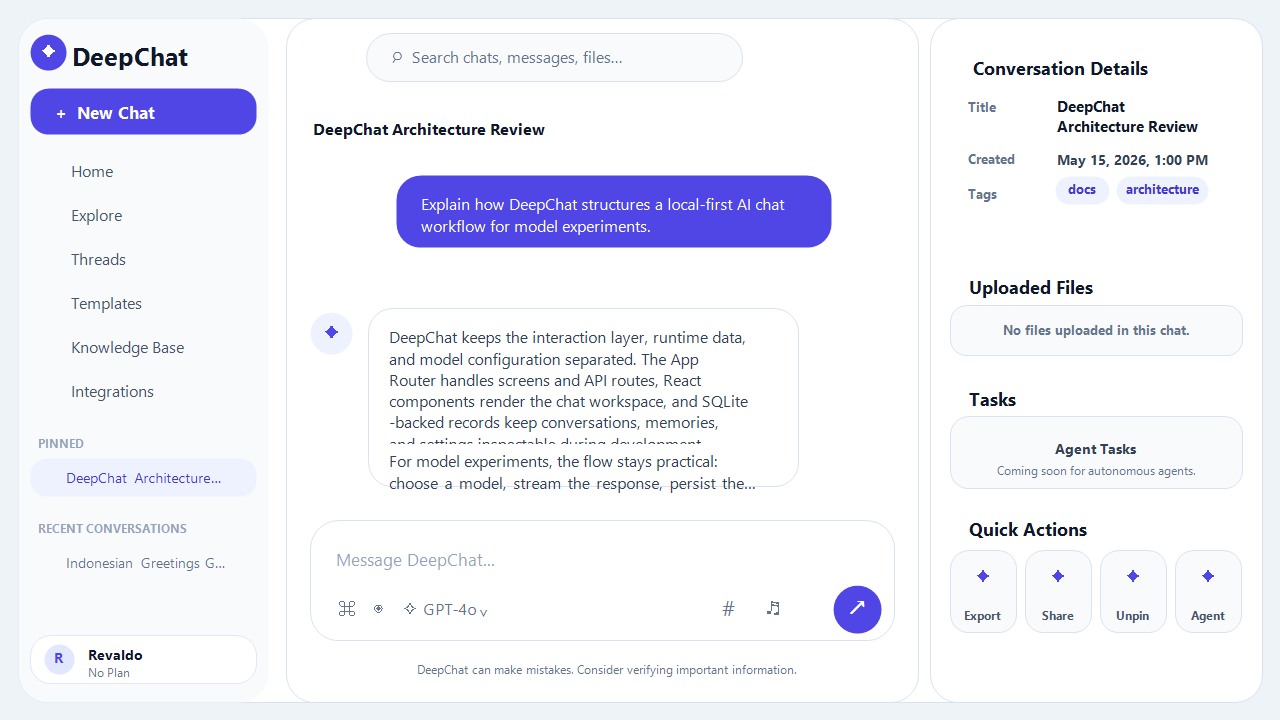
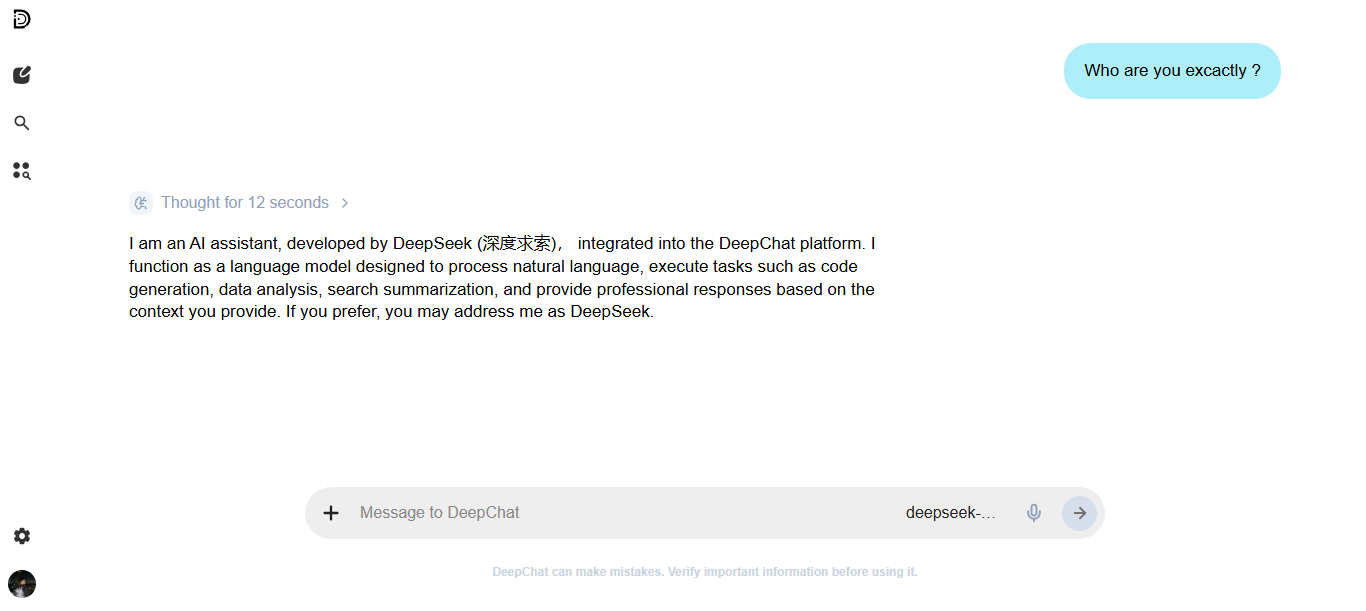
Updating readme and add Contributor.md

diff --git a/README.md b/README.md
@@ -1,179 +1,153 @@
-# DeepChat
-
 <div align="center">
+  <img src="./public/icon.svg" alt="DeepChat Logo" width="120" height="120" />
 
-![Project Status](https://img.shields.io/badge/status-under%20development-111827?style=flat-square)
-![Next.js](https://img.shields.io/badge/Next.js-16.2.4-000000?style=flat-square&logo=nextdotjs)
-![React](https://img.shields.io/badge/React-19.2.4-087EA4?style=flat-square&logo=react&logoColor=white)
-![TypeScript](https://img.shields.io/badge/TypeScript-5.x-3178C6?style=flat-square&logo=typescript&logoColor=white)
-![Tailwind CSS](https://img.shields.io/badge/Tailwind%20CSS-4.x-38BDF8?style=flat-square&logo=tailwindcss&logoColor=white)
-![pnpm](https://img.shields.io/badge/pnpm-ready-F69220?style=flat-square&logo=pnpm&logoColor=white)
-![License](https://img.shields.io/badge/license-MIT-16A34A?style=flat-square)
+  # DeepChat
 
-**An under-development AI chat agent interface inspired by ChatGPT and OpenClaw.**
+  <p align="center">
+    <strong>A next-generation, local-first AI chat workspace and agent environment.</strong>
+  </p>
 
-DeepChat is a modern, extensible, agent-oriented chat application built with Next.js, React, and TypeScript. It is designed for AI conversations, model experimentation, personalized assistant behavior, memory-assisted context, code workflows, and a polished local-first chat experience.
+  <p align="center">
+    <a href="https://img.shields.io/badge/status-active_development-blue?style=for-the-badge"><img src="https://img.shields.io/badge/status-active_development-blue?style=for-the-badge" alt="Status" /></a>
+    <a href="https://nextjs.org/"><img src="https://img.shields.io/badge/Next.js-16.2.4-black?style=for-the-badge&logo=nextdotjs" alt="Next.js" /></a>
+    <a href="https://react.dev/"><img src="https://img.shields.io/badge/React-19.2.4-087EA4?style=for-the-badge&logo=react&logoColor=white" alt="React" /></a>
+    <a href="https://www.typescriptlang.org/"><img src="https://img.shields.io/badge/TypeScript-5.x-3178C6?style=for-the-badge&logo=typescript&logoColor=white" alt="TypeScript" /></a>
+    <a href="https://tailwindcss.com/"><img src="https://img.shields.io/badge/Tailwind_CSS-4.x-38BDF8?style=for-the-badge&logo=tailwindcss&logoColor=white" alt="Tailwind CSS" /></a>
+    <a href="https://pnpm.io/"><img src="https://img.shields.io/badge/pnpm-ready-F69220?style=for-the-badge&logo=pnpm&logoColor=white" alt="pnpm" /></a>
+    <a href="./LICENSE"><img src="https://img.shields.io/badge/license-MIT-16A34A?style=for-the-badge" alt="MIT License" /></a>
+  </p>
 
+  <p align="center">
+    <a href="./README_id.md"><strong>Bahasa Indonesia (README_id.md)</strong></a>
+  </p>
 </div>
 
-## Overview
+---
 
-DeepChat is an AI chat agent application created for people who want a refined conversational interface with room for experimentation. The project is inspired by the interaction model of ChatGPT and the agent-oriented workflow direction of OpenClaw, while still developing its own structure, interface decisions, and local-first runtime behavior.
+DeepChat is a feature-rich, local-first conversational workspace built with Next.js, React, and TypeScript. Inspired by the dynamic UX of ChatGPT and the agent-focused adaptability of OpenClaw, DeepChat provides a polished interface for advanced model experimentation, long-term memory extraction, interactive sandboxed code execution, and custom assistant behavior.
 
-The application is currently under active development. The goal is to provide a capable AI chat workspace that feels familiar enough for everyday use, but flexible enough for advanced workflows such as custom model connections, assistant persona tuning, contextual memory, file-assisted conversations, code preview, and agent-style task execution.
+> [!WARNING]
+> This application is currently under **active development**. Some features may change, break, or improve as the repository undergoes refinement toward stability.
 
-DeepChat is not presented as a finished production platform yet. It is a work-in-progress AI chat client and agent interface. The repository is being shaped toward a more complete, stable, and production-ready experience over time.
+---
 
-## Project Description
+## Key Capabilities
 
-DeepChat is a Next.js AI chat application for building and testing a modern conversational AI experience. It combines a ChatGPT-inspired user interface with agent-focused capabilities such as model selection, memory references, persona configuration, code-oriented workflows, and local runtime data handling.
+### Premium Mobile-First UI/UX
+- Fully responsive interface designed layout-first for mobile devices, then seamlessly scaled for desktops.
+- Sleek, modern design with glassmorphism touches, fluid animations powered by Framer Motion, and absolute focus on usability.
+- Custom-tailored dark and light themes, collapsible sidebars, and customizable control panels.
 
-The project is intended to become a clean, extensible AI chat agent workspace for developers, makers, researchers, and users who want a more customizable interface for interacting with large language models. DeepChat is suitable as a foundation for experimenting with AI assistants, multi-model chat, prompt behavior, personal context, and workflow-driven conversations.
+### Semantic Long-Term Memory & Context
+- Automated background memory extraction to build assistant understanding of the user.
+- Persistent structured memories categorized by importance, time, and content type.
+- Vectorizable history tracking to support semantic recall across multiple chat sessions.
 
-## Screenshots
+### Deep Model Context Protocol (MCP) Integration
+- Direct integration with Model Context Protocol servers to equip models with local and network tools.
+- Granular MCP permissions, runtime tool configuration, and security gates.
+- Built-in provider switcher with native support for the official Google GenAI SDK (Gemini models).
 
-### 1. Home Screen
+### Rich Developer Workflows & Sandboxes
+- Full markdown layout with extensive LaTeX mathematical formula support (KaTeX) and GFM rendering.
+- Syntax highlighting powered by Shiki for production-grade code readability.
+- Embedded sandboxed execution environments to build, preview, and test generated code inside execution sessions.
 
-![DeepChat light theme home screen](./docs/screenshots/deepchat-home.png)
+### Local-First & Privacy Conscious
+- Complete local persistence powered by SQLite via better-sqlite3 and type-safe schema mapping via Drizzle ORM.
+- Private document directories where chats, logs, generated files, and profile details remain strictly on your local machine.
 
-### 2. Chat Screen
+---
 
-![DeepChat light theme chat screen](./docs/screenshots/deepchat-chat.png)
+## Getting Started (Windows)
 
-## Technical Stack
+DeepChat is pre-configured with a powerful local launcher for Windows. You do not need to deal with manual console setups, dependency tracking, or server management.
 
-| Layer | Technology | Role |
-| --- | --- | --- |
-| Framework | Next.js 16.2.4 | App Router, server actions, API routes, production build pipeline |
-| Runtime UI | React 19.2.4 | Interactive chat workspace, composer state, panels, settings modal |
-| Language | TypeScript 5.x | Typed application contracts and safer refactoring |
-| Styling | Tailwind CSS 4 | Responsive interface styling and theme-aware surfaces |
-| Persistence | SQLite via better-sqlite3 | Local chat, message, memory, attachment, and shared snapshot storage |
-| ORM | Drizzle ORM | Database schema and typed database access layer support |
-| AI Provider SDK | Google GenAI SDK | Gemini-oriented model and generation workflows |
-| Markdown | react-markdown, remark-gfm, remark-math, rehype-katex | Rich assistant output, GFM, and math rendering |
-| Code Rendering | Shiki | Syntax highlighting for generated code blocks |
-| Motion | Framer Motion | Interface transitions and lightweight interaction polish |
+### The Easiest Way: deepchat.bat
 
-## Core Capabilities
+To launch DeepChat, simply double-click the **deepchat.bat** file in the root folder of the project.
 
-- ChatGPT-inspired home screen, chat view, sidebar, right panel, and reusable composer.
-- Model selection and provider configuration for LLM experimentation.
-- Local-first data handling for chats, user profile, memories, temporary files, and API connection metadata.
-- Persona and memory modules for personalized assistant behavior.
-- Markdown, math, and syntax-highlighted code response rendering.
-- Code workflow utilities for preview, runner detection, runner security, and execution API routes.
-- API routes for chat generation, model listing, verification, memory extraction, code preview, code run, and code sessions.
-- Settings surfaces for general preferences, profile, personality, connections, notifications, MCP, tools, agent behavior, and data controls.
+#### What does the launcher do behind the scenes?
+1. **Automated Directory Bootstrapping:** Safely creates the local file structure inside `data/` for chats, memories, temp artifacts, and logs.
+2. **Dependency Manager:** Automatically checks if local packages are present. If missing, it runs a silent installation using `pnpm@10` tailored with specific build exclusions.
+3. **Smart Incremental Compilation:** Compares modification timestamps of code in `src/`, `public/`, and configuration files against your latest build. If changes are detected, it builds the application; otherwise, it skips straight to runtime.
+4. **Port Allocation & PID Resolution:** Validates port availability. If port 3000 is already in use by a previous DeepChat instance, it presents options to hot-reload, kill the occupying PID, or launch immediately in the browser.
+5. **Network / LAN Auto-Discovery:** Resolves and displays both your local computer address and your local network IP (LAN), allowing you to interact with the chat from your phone, tablet, or secondary devices.
+6. **Log Redirection & Log Filtering:** Filters out generic server requests while highlighting critical system operations and `[AI]` reasoning in clear color-coded console logs. Automatically launches the browser once server is ready.
 
-## Repository Structure
+---
 
-```text
-deepchat/
-+-- data/
-|   +-- chat/
-|   +-- llm/
-|   +-- temp/
-|   +-- user/
-+-- docs/
-|   +-- screenshots/
-+-- public/
-+-- scripts/
-+-- src/
-|   +-- app/
-|   +-- components/
-|   +-- lib/
-+-- package.json
-+-- next.config.ts
-+-- tsconfig.json
-+-- README.md
-```
+## Manual & Advanced Commands
 
-## Installation
+For developers who prefer terminal controls, DeepChat supports standardized scripts via pnpm:
 
-Use Node.js 20 or newer and pnpm.
-
+### Package Installation
+Provide this instruction to install dependencies manually:
 ```bash
 pnpm install
 ```
 
-Start the development server:
-
+### Local Development Server
+Launches the development instance with Turbopack for near-instant hot reloading:
 ```bash
 pnpm dev
 ```
 
-Open:
-
-```text
-http://localhost:3000
-```
-
-## Production Commands
-
-Create a production build:
-
+### Production Operations
+Generate the production bundle:
 ```bash
 pnpm build
 ```
-
-Start the production server:
-
+Launch the compiled production bundle:
 ```bash
 pnpm start
 ```
-
-Run linting:
-
+Perform code linting to ensure compliance with production quality:
 ```bash
 pnpm lint
 ```
 
-## Runtime Data
+---
 
-DeepChat stores runtime data under `data/`. This directory can contain private chats, uploaded files, memories, profile data, model connection metadata, logs, SQLite files, and temporary artifacts.
-
-Keep runtime data out of Git. Use local files for development and deployment secrets or managed storage for production environments.
-
-## Environment
-
-Provider credentials should be stored in local environment files or deployment secrets. Do not commit API keys, tokens, private keys, local database files, chat exports, uploaded documents, or generated runtime state.
-
-Recommended local file:
+## Workspace Architecture
 
 ```text
-.env.local
+deepchat/
+├── data/                       # Local runtime environment (gitignored)
+│   ├── chat/                   # User sessions and conversational snapshots
+│   ├── llm/                    # Connection configurations and prompt profiles
+│   ├── temp/                   # Session files and temporary downloads
+│   ├── user/                   # Memory tables and user metadata
+│   ├── backups/                # Periodic database and configuration backups
+│   └── logs/                   # System runtime logs and event histories
+├── docs/                       # Technical documentations and workspace guides
+│   └── screenshots/            # Visual layout references
+├── public/                     # Static assets
+│   ├── icon.svg                # Main application logo
+│   └── icons/                  # Modular icon packages
+├── scripts/                    # Automation scripts
+│   └── deepchat-launcher.ps1   # PowerShell launcher backing deepchat.bat
+├── src/                        # Primary React/Next.js codebase
+│   ├── app/                    # Routing pages, layouts, actions, and styles
+│   ├── components/             # Reusable UX modules and widgets
+│   └── lib/                    # MCP settings, database layers, and generation scripts
+├── package.json                # Project manifest and package configurations
+├── tsconfig.json               # TypeScript rules and compilation schema
+└── deepchat.bat                # Windows interactive execution entrypoint
 ```
 
-## Production Notes
+---
 
-Before deploying DeepChat publicly, review authentication, authorization, rate limiting, provider key storage, database persistence, file upload boundaries, code execution safeguards, logging policy, backup strategy, and privacy requirements.
+## Status & Future Directions
 
-The app can be built with `pnpm build`, but the project status remains under development.
+This application is actively developing under the workspace structure of a localized AI. Future releases target:
+- Deepening multi-model orchestration.
+- Advanced vector database capabilities for semantic long-term memory retrieval.
+- Comprehensive tool pipelines and external execution security gates.
+- Polished integrations for the Model Context Protocol ecosystem.
 
-## GitHub Repository Description
-
-Modern AI chat agent interface inspired by ChatGPT and OpenClaw, built with Next.js, React, TypeScript, SQLite, memory-assisted context, model configuration, and code workflow tooling.
-
-## Suggested Topics
-
-```text
-ai-chat
-ai-agent
-chatgpt-inspired
-openclaw-inspired
-nextjs
-react
-typescript
-llm
-local-first
-memory
-persona
-code-assistant
-sqlite
-tailwindcss
-```
+---
 
 ## License
 
-DeepChat is licensed under the MIT License. See [LICENSE](./LICENSE).
+DeepChat is open-source software licensed under the MIT License. All local storage, generation workflows, and customization modules are free to adapt, extend, and deploy.